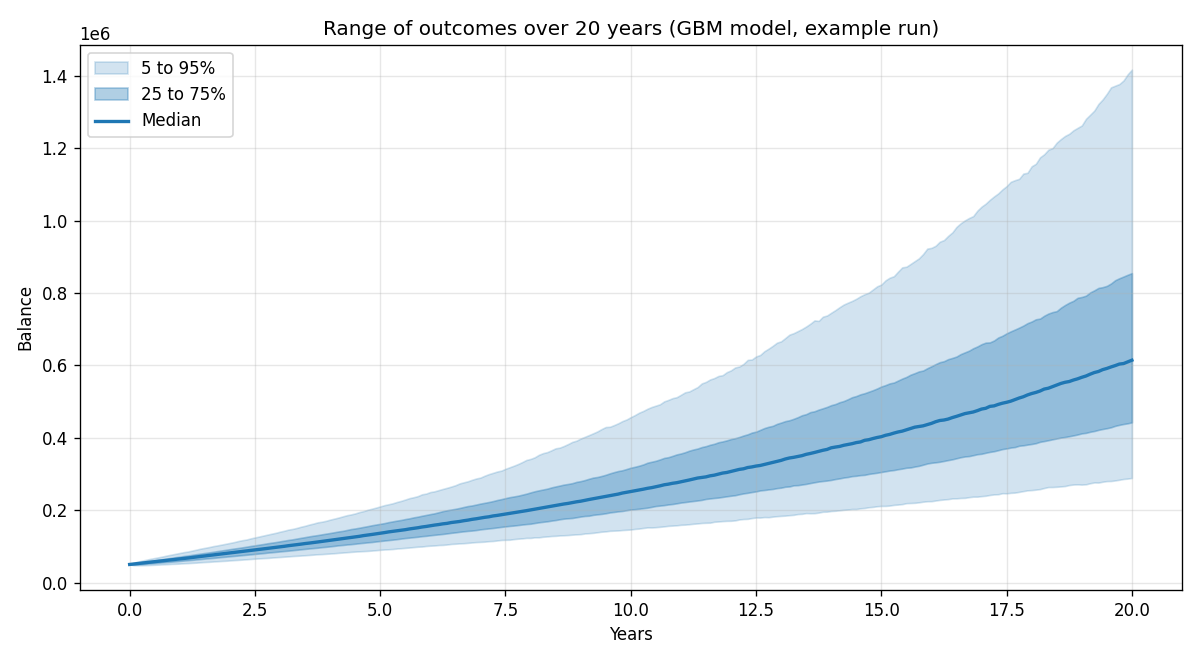
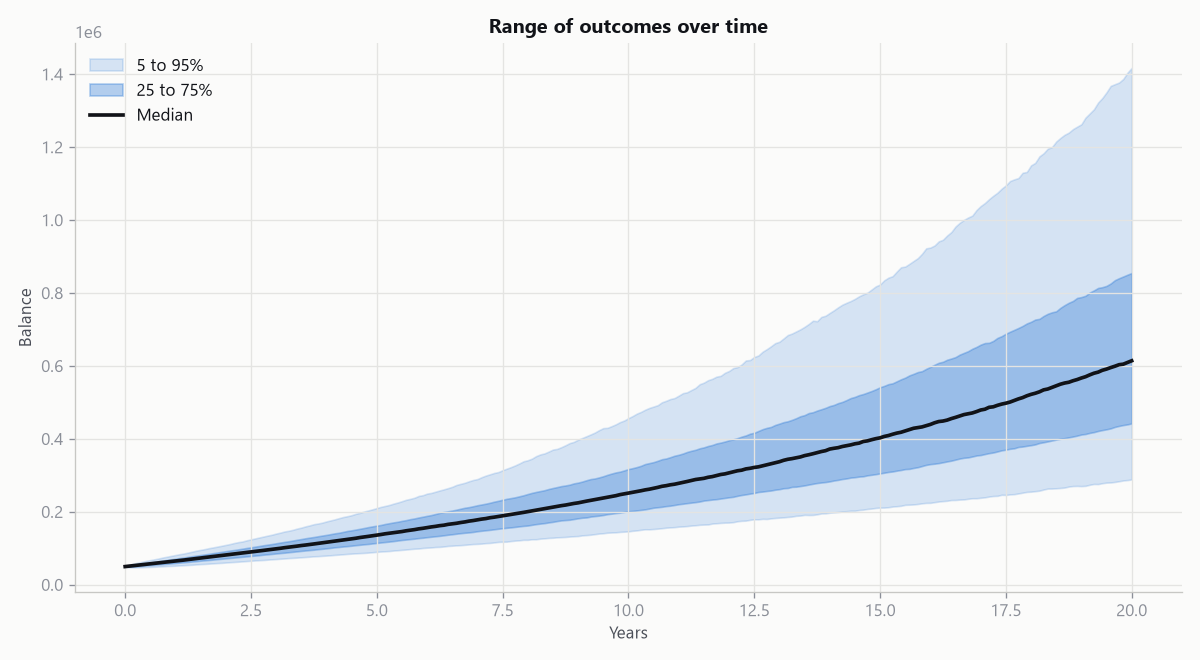
Apply validated chart styling to the fan chart and histogram
Verified end to end first: pytest (16/16) and a live run of
run_simulation.py against yfinance both pass. Swapped unstyled
matplotlib defaults for viz_style.py, matching the treatment applied
across the other quant-finance repos (validated categorical palette,
dataviz six-checks all pass). The percentile-band fan chart already
followed good practice (single hue, shaded by depth); it now sits on the
same light analytics surface as the rest.

diff --git a/src/monte_carlo/plotting.py b/src/monte_carlo/plotting.py
@@ -12,6 +12,8 @@ from pathlib import Path
 import matplotlib.pyplot as plt
 import numpy as np
 
+from . import viz_style
+
 
 def plot_fan_chart(
     paths: np.ndarray,
@@ -19,20 +21,22 @@ def plot_fan_chart(
     title: str = "Range of outcomes over time",
 ):
     """Shaded percentile bands of the balance paths through time."""
+    viz_style.apply()
     n_steps = paths.shape[1] - 1
     years = np.arange(n_steps + 1) / steps_per_year
 
     p5, p25, p50, p75, p95 = np.percentile(paths, [5, 25, 50, 75, 95], axis=0)
 
     fig, ax = plt.subplots(figsize=(10, 5.5))
-    ax.fill_between(years, p5, p95, alpha=0.20, color="tab:blue", label="5 to 95%")
-    ax.fill_between(years, p25, p75, alpha=0.35, color="tab:blue", label="25 to 75%")
-    ax.plot(years, p50, color="tab:blue", linewidth=2, label="Median")
+    ax.fill_between(years, p5, p95, alpha=0.18, color=viz_style.BLUE,
+                    label="5 to 95%")
+    ax.fill_between(years, p25, p75, alpha=0.35, color=viz_style.BLUE,
+                    label="25 to 75%")
+    ax.plot(years, p50, color=viz_style.INK, linewidth=2.2, label="Median")
     ax.set_title(title)
     ax.set_xlabel("Years")
     ax.set_ylabel("Balance")
     ax.legend()
-    ax.grid(True, alpha=0.3)
     fig.tight_layout()
     return fig
 
@@ -44,18 +48,21 @@ def plot_terminal_histogram(
     title: str = "Distribution of final balances",
 ):
     """Histogram of final balances, with the target and break-even lines."""
+    viz_style.apply()
     fig, ax = plt.subplots(figsize=(10, 5))
-    ax.hist(terminal_values, bins=60, color="tab:blue", alpha=0.7)
+    ax.hist(terminal_values, bins=60, color=viz_style.BLUE, alpha=0.8)
     if target is not None:
-        ax.axvline(target, color="tab:green", linestyle="--", linewidth=2, label="Target")
+        ax.axvline(target, color=viz_style.AQUA, linestyle="--", linewidth=2,
+                  label="Target")
     if break_even is not None:
-        ax.axvline(break_even, color="tab:red", linestyle=":", linewidth=2, label="Total paid in")
+        ax.axvline(break_even, color=viz_style.RED, linestyle=":", linewidth=2,
+                  label="Total paid in")
     ax.set_title(title)
     ax.set_xlabel("Final balance")
     ax.set_ylabel("Number of simulated futures")
     if target is not None or break_even is not None:
         ax.legend()
-    ax.grid(True, axis="y", alpha=0.3)
+    ax.grid(axis="x", visible=False)
     fig.tight_layout()
     return fig
 

diff --git a/src/monte_carlo/viz_style.py b/src/monte_carlo/viz_style.py
@@ -1,0 +1,53 @@
+"""Shared chart style: a validated categorical palette on a clean light
+surface, styled for a quant/analytics register rather than matplotlib
+defaults."""
+
+from __future__ import annotations
+
+import matplotlib as mpl
+from matplotlib.colors import LinearSegmentedColormap
+
+SURFACE = "#fbfbfa"
+INK = "#111318"
+INK_2 = "#4b4f58"
+MUTED = "#8b8f98"
+GRID = "#e4e4e2"
+BASELINE = "#c7c7c4"
+
+# Fixed-order categorical set (validated: adjacent-pair CVD dE >= 8, normal
+# vision floor >= 15 on this surface). Never cycle past what's needed.
+SERIES = ["#2a78d6", "#eb6834", "#1baf7a", "#4a3aa7", "#e34948", "#eda100"]
+BLUE, ORANGE, AQUA, VIOLET, RED, YELLOW = SERIES
+
+DIVERGE_NEG, DIVERGE_MID, DIVERGE_POS = "#e34948", "#f0efec", "#2a78d6"
+
+
+def apply() -> None:
+    mpl.rcParams.update({
+        "figure.facecolor": SURFACE,
+        "axes.facecolor": SURFACE,
+        "savefig.facecolor": SURFACE,
+        "axes.edgecolor": BASELINE,
+        "axes.labelcolor": INK_2,
+        "axes.titlecolor": INK,
+        "axes.titleweight": "bold",
+        "axes.titlesize": 12,
+        "axes.grid": True,
+        "grid.color": GRID,
+        "grid.linewidth": 0.8,
+        "axes.spines.top": False,
+        "axes.spines.right": False,
+        "xtick.color": MUTED,
+        "ytick.color": MUTED,
+        "text.color": INK,
+        "font.family": "sans-serif",
+        "font.sans-serif": ["Segoe UI", "Arial", "sans-serif"],
+        "lines.linewidth": 2,
+        "legend.frameon": False,
+        "figure.dpi": 120,
+    })
+
+
+def diverging_cmap():
+    return LinearSegmentedColormap.from_list(
+        "diverge", [DIVERGE_NEG, DIVERGE_MID, DIVERGE_POS])
